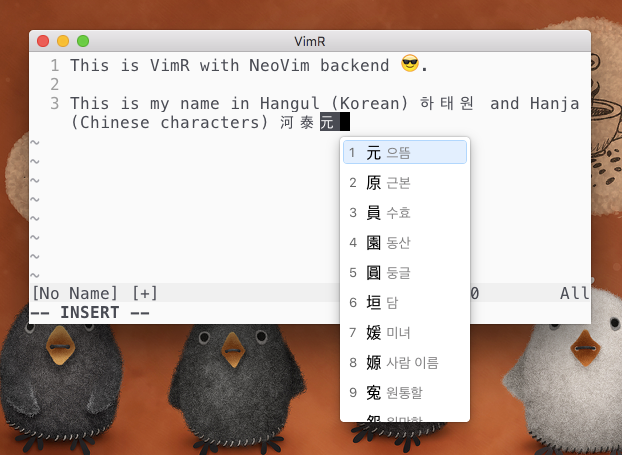
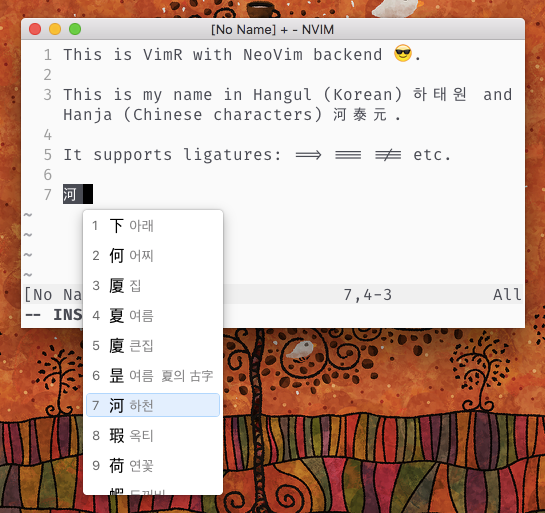
GH-221 Update README

diff --git a/README.md b/README.md
@@ -27,6 +27,12 @@ If you want to support VimR financially, you can use [Bountysource](https://www.
 
 Pre-built binaries can be found [here](https://github.com/qvacua/vimr/releases).
 
+## Already Implemented
+
+* Multiple windows.
+* Basic input including Emojis and Hangul (+Hanja): We don't know whether other input systems work...
+* Basic mouse support: Left button actions and scrolling.
+* Ligatures: Turned off by default. Turn it on in the Preferences.
 
 ## Planned Features
 
